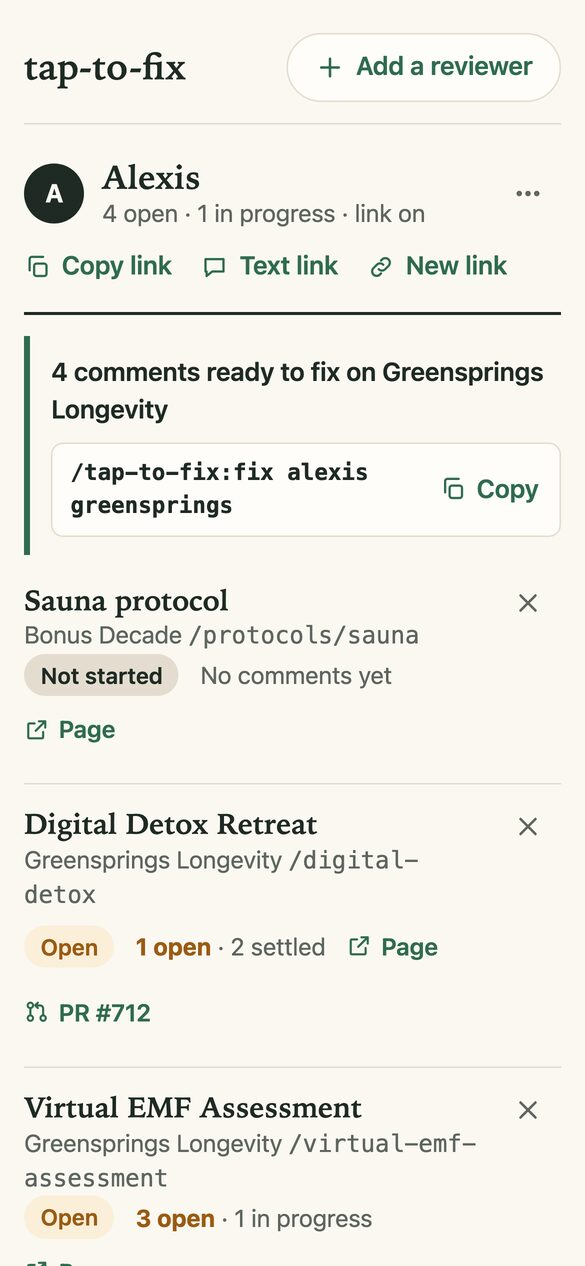
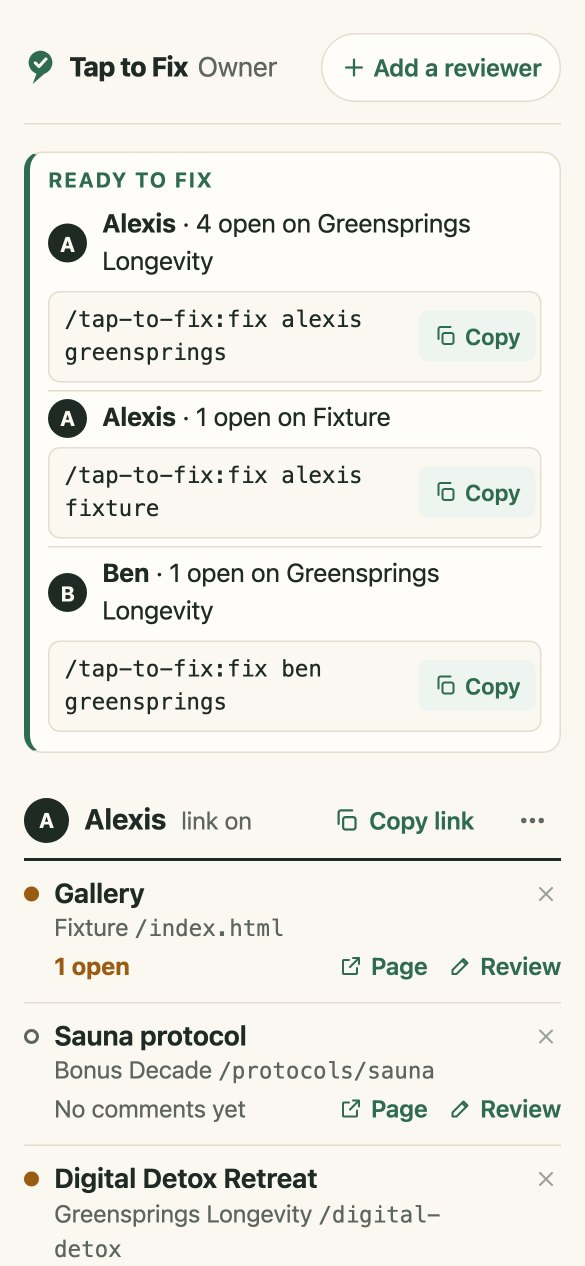
README and site: current dashboards, Review link, iframes, sticky headers
New screenshots of the owner dashboard (layout B with Review links) and the
redesigned reviewer list (sections, state icons, "Since you last looked"),
made from the e2e shot scripts' seeded data at the same sizes and crops.
how-it-works.jpg keeps its frames and step 1; steps 2 and 3 show the new
screens. Alt text and captions describe the new pictures. The README's
Dashboards section names the Ready to fix list and the Review link, and the
reviewer-link section covers same-origin iframes and sticky headers.

Claude-Session: https://claude.ai/code/session_01XcojSifVmThABiZ3VxUgzz

diff --git a/docs/index.html b/docs/index.html
@@ -55,14 +55,14 @@
           <p>They open their private link, tap the spot that looks wrong and say what should change. A screenshot and the exact element come along.</p>
         </li>
         <li>
-          <div class="phone"><img src="assets/odash.jpg" width="585" height="1266" loading="lazy" alt="The owner dashboard showing “4 comments ready to fix on Greensprings Longevity” and the command /tap-to-fix:fix alexis greensprings with a Copy button."></div>
+          <div class="phone"><img src="assets/odash.jpg" width="585" height="1266" loading="lazy" alt="The owner dashboard's Ready to fix list: “Alexis · 4 open on Greensprings Longevity” with the command /tap-to-fix:fix alexis greensprings and a Copy button, then the same for Alexis on Fixture and Ben on Greensprings Longevity."></div>
           <h3>You run one command</h3>
           <p>Your dashboard shows who has comments waiting and the command to run. In Claude Code, <code>/tap-to-fix:fix</code> works through them as a review cycle, one pull request per fix.</p>
         </li>
         <li>
-          <div class="phone"><img src="assets/rdash.jpg" width="585" height="1266" loading="lazy" alt="The reviewer's list of pages, with “Updated since you looked” and “All done” labels."></div>
+          <div class="phone"><img src="assets/rdash.jpg" width="585" height="1266" loading="lazy" alt="The reviewer's list: “Hi Alexis.”, a “Since you last looked” notice saying Virtual EMF Assessment has 2 fixed, with a Got it button, then pages under New, Updated since you looked and Looked at."></div>
           <h3>They see it done</h3>
-          <p>Each comment's status goes back to the reviewer as it's fixed, so they know what changed without asking.</p>
+          <p>Each comment's status goes back to the reviewer as it's fixed. A note at the top of their list says what was fixed since they last looked, so they know what changed without asking.</p>
         </li>
       </ol>
     </div>
@@ -74,12 +74,12 @@
       <h2>One for you, one for them</h2>
       <div class="duo">
         <figure>
-          <img src="assets/owner-dashboard.jpg" width="1440" height="900" loading="lazy" alt="The owner dashboard: a Ready to fix strip with the command to copy for each reviewer, then a short list of each reviewer's pages with their open comments and pull request links.">
-          <figcaption><b>Yours:</b> every reviewer, their pages, what's open, and the command to run. Copy or text a reviewer their link from here.</figcaption>
+          <img src="assets/owner-dashboard.jpg" width="1440" height="900" loading="lazy" alt="The owner dashboard: a Ready to fix strip with the command to copy for each reviewer, then a short list of each reviewer's pages with their open comments and Page, Review and pull request links.">
+          <figcaption><b>Yours:</b> every reviewer, their pages, what's open, and the command to run. Copy or text a reviewer their link from here, or tap Review to open a page as they see it.</figcaption>
         </figure>
         <figure>
-          <img src="assets/reviewer-dashboard.jpg" width="1440" height="900" loading="lazy" alt="The reviewer's page list: pages grouped by site, each with its comment count and status.">
-          <figcaption><b>Theirs:</b> the pages to review, grouped by site, with what's being fixed and what's done.</figcaption>
+          <img src="assets/reviewer-dashboard.jpg" width="1440" height="900" loading="lazy" alt="The reviewer's page list: a “Since you last looked” notice with Got it, then pages under New, Updated since you looked and Looked at, each with an icon for where its comments stand.">
+          <figcaption><b>Theirs:</b> the pages to review, new ones first, with what's being fixed and what's done. A note at the top says what was fixed since they last looked.</figcaption>
         </figure>
       </div>
     </div>

diff --git a/README.md b/README.md
@@ -12,7 +12,7 @@
 <p align="center"><b>Your reviewers tap the live site on their phone and say what to fix.<br>Claude Code fixes each comment and tells them when it's done.</b></p>
 
 <p align="center">
-  <img src="docs/assets/how-it-works.jpg" alt="Three steps on phones: 1, a reviewer taps the “Book your assessment” button on the live page and asks “Should this button be full width on mobile?”; 2, the owner dashboard shows the command /tap-to-fix:fix alexis greensprings; 3, the reviewer's list shows the page as updated and done." width="100%">
+  <img src="docs/assets/how-it-works.jpg" alt="Three steps on phones: 1, a reviewer taps the “Book your assessment” button on the live page and asks “Should this button be full width on mobile?”; 2, the owner dashboard's Ready to fix list shows the command /tap-to-fix:fix alexis greensprings with a Copy button; 3, the reviewer's list opens with a “Since you last looked” notice: Virtual EMF Assessment, 2 fixed, and a Got it button." width="100%">
 </p>
 
 <p align="center"><a href="https://workingben.github.io/tap-to-fix/"><b>See the site</b></a> · <a href="#quickstart"><b>Install</b></a></p>
@@ -27,7 +27,7 @@ It was built for [Greensprings Longevity](https://greensprings.life) and its Bon
 
 1. **A reviewer taps.** You give each reviewer a private link. It opens their list of pages to review. On a page, they tap a spot, type what should change, and save.
 2. **The comment is saved with a screenshot.** The browser takes a screenshot of what the reviewer sees, marks the tapped spot, and shrinks it before upload. The service stores the comment, the screenshot, the page, and enough about the element to find it again after the page changes.
-3. **You see it on the owner dashboard.** It lists your reviewers, the pages assigned to each, and how many comments are waiting. For each reviewer with open comments it shows the command to run.
+3. **You see it on the owner dashboard.** A **Ready to fix** list at the top shows each reviewer with open comments and the command to run. Below it are your reviewers, the pages assigned to each, and how many comments are waiting.
 4. **Claude Code fixes them.** In your site's repo, run `/tap-to-fix:fix <reviewer> <site>`. It downloads that reviewer's comments and screenshots and runs them as a [proofs](https://github.com/workingBen/proofs) review cycle. Each comment is marked in progress when work on it starts, and done with its pull request link after merge.
 5. **The reviewer sees the status.** Their list puts new pages first, then pages updated since they last looked. A short notice at the top says how many comments were fixed on which pages, until they tap **Got it**.
 
@@ -158,9 +158,11 @@ The owner creates a reviewer and assigns pages (a path on a site). The reviewer'
 
 Without a token, nothing appears. On a page not assigned to the reviewer, the bar says "This page isn't on your review list", and every tap goes through to the page as usual. On sites that swap pages without a full reload (Turbo Drive, other routers), the comment layer follows along on `turbo:load`, `popstate` and `pageshow`.
 
+The comment layer also works inside same-origin iframes, such as an article shown in `<iframe srcdoc>`: taps, pins and screenshots reach the framed page. Cross-origin frames are skipped. If the site has a sticky header, pins slide under it as the page scrolls, like the page's own content; pins on the header itself stay visible.
+
 ## Dashboards
 
-**Owner (`/o/`).** Open `https://YOUR-SERVICE-ORIGIN/o/#owner=OWNER_TOKEN` once. The page saves the token in `localStorage`, removes it from the address bar, and shows your reviewers, pages and sites. On a later visit, `/o/` alone works from the same browser. If the token is missing or wrong, the page asks you to paste it. From there you add sites, reviewers and assigned pages, and copy each "ready for a review cycle" command (`/tap-to-fix:fix <first name> <site slug>`). Each reviewer has **Copy link**, **Text link** (opens a new text message with the link in it), **New link** and **Turn off link**. The link is fetched only when you tap, and only the owner can fetch it. Reviewers added before links were kept show a note asking for **New link** once.
+**Owner (`/o/`).** Open `https://YOUR-SERVICE-ORIGIN/o/#owner=OWNER_TOKEN` once. The page saves the token in `localStorage`, removes it from the address bar, and shows your reviewers, pages and sites. On a later visit, `/o/` alone works from the same browser. If the token is missing or wrong, the page asks you to paste it. From there you add sites, reviewers and assigned pages, and copy each reviewer's command from the **Ready to fix** list at the top (`/tap-to-fix:fix <first name> <site slug>`). Each assigned page has **Page**, which opens the live page, and **Review**, which opens it with the comment layer on, as that reviewer. **Review** is grayed out while that reviewer's link is off. Each reviewer has **Copy link**, **Text link** (opens a new text message with the link in it), **New link** and **Turn off link**. The link is fetched only when you tap, and only the owner can fetch it. Reviewers added before links were kept show a note asking for **New link** once.
 
 **Reviewer (`/r/`).** The reviewer's link is `https://YOUR-SERVICE-ORIGIN/r/#ttf=THEIR_TOKEN`. It opens their list of pages in sections: **New** (never opened), **Updated since you looked**, **Looked at**, and a closed **Finished** list at the bottom. An icon on each row shows where its comments stand: a gray outline bubble (no comments yet), an amber bubble (comments waiting), a green pie (some settled) or a green check (all done). Above the list, **Since you last looked** names each page with comments fixed since the reviewer last tapped **Got it**, and how many; a finished page stays in Finished and the notice names it. The **⋯** on a row opens **Review complete** (moves the page to Finished) and **Open the page**; a finished page has **Re-review** to bring it back. Tapping a page opens the live site with the comment layer on. The token stays in the address bar so the page can be added to a phone's home screen. **New link** makes the old one stop working.
 
